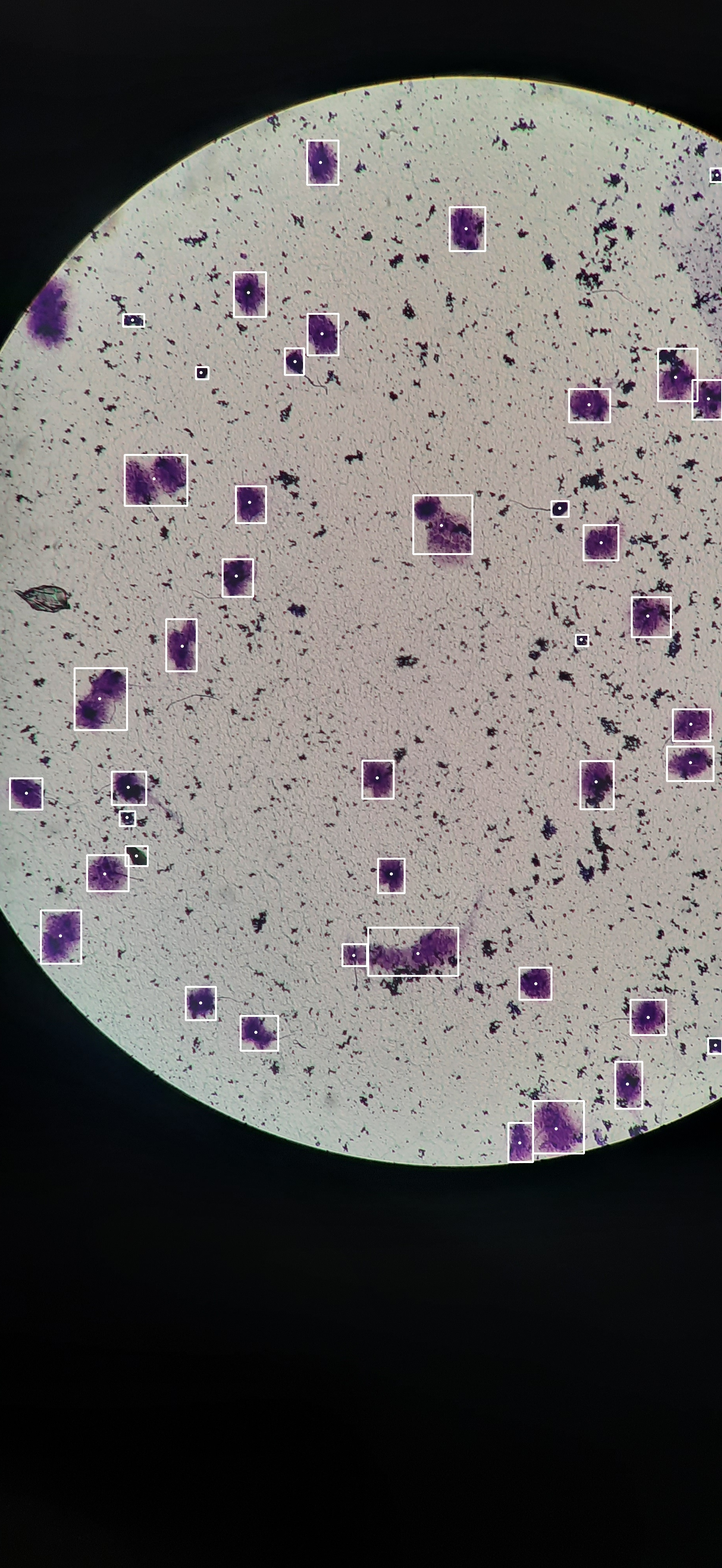
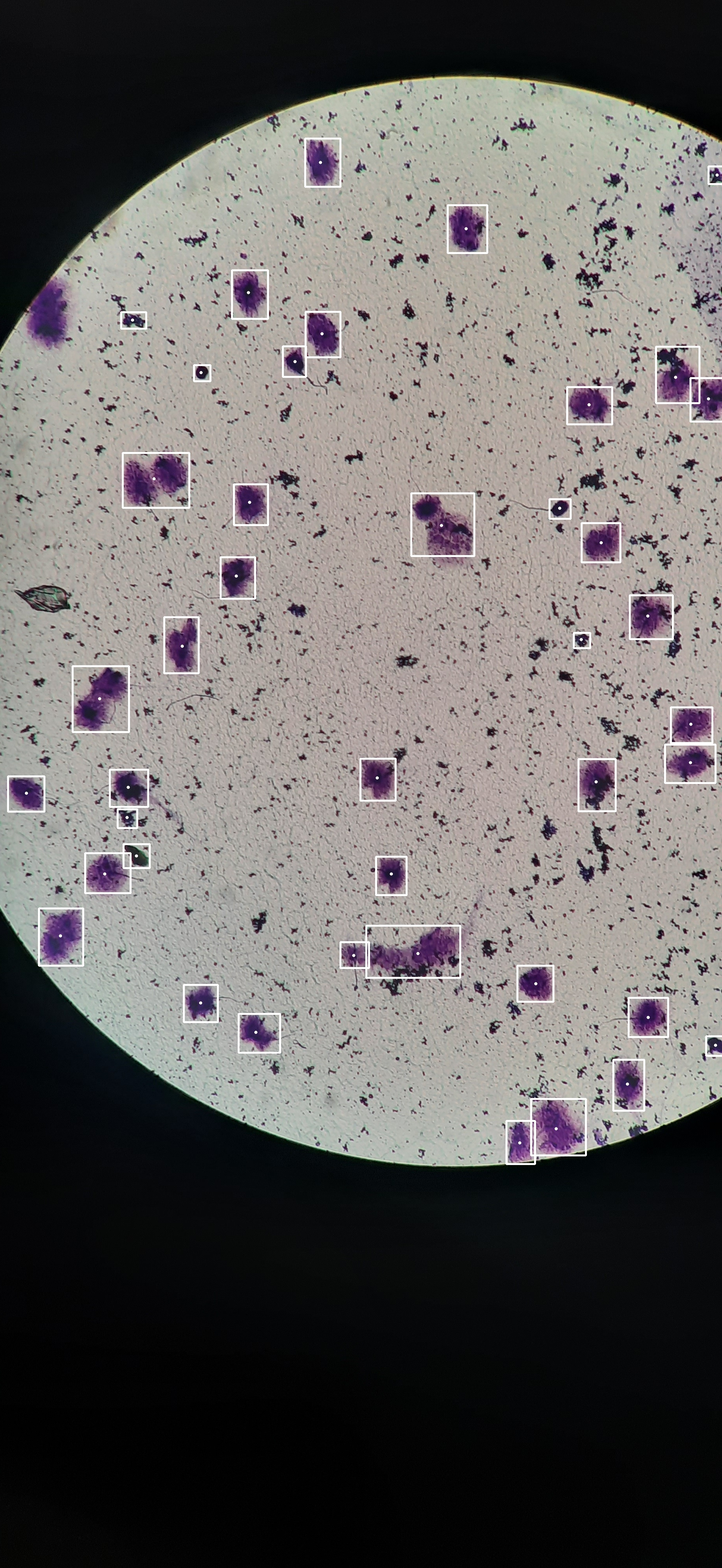
better margin

diff --git a/src/preprocessor/main.py b/src/preprocessor/main.py
@@ -13,6 +13,7 @@ HUE_PARAMS = {
     'ilowV' : 0,
     'ihighV' : 189,
 }
+MARGIN = 10
 
 def show(name, img):
     cv2.imshow(name, img)
@@ -53,7 +54,7 @@ def hue_separate():
 def get_full_img_binary(gray):
     thresh = cv2.threshold(gray, 20, 255,
 	cv2.THRESH_BINARY)[1]
-    show("thresh", thresh)
+    # show("thresh", thresh)
     cv2.imwrite("../images/output/asds_thresh.jpg", thresh)
     mask = cv2.bitwise_not(thresh)
     input_gray = cv2.cvtColor(INPUT_FRAME, cv2.COLOR_BGR2GRAY)
@@ -96,12 +97,15 @@ def cca(thresh):
         w = stats[i, cv2.CC_STAT_WIDTH]
         h = stats[i, cv2.CC_STAT_HEIGHT]
         area = stats[i, cv2.CC_STAT_AREA]
-        print("area", area)
+        # print("area", area)
         if area < 500 or area > 30000:
             continue
         (cX, cY) = centroids[i]
         
-        
+        x -= int(MARGIN/2)
+        y -= int(MARGIN/2)
+        w += MARGIN
+        h += MARGIN
         cv2.rectangle(output_img, (x, y), (x + w, y + h), (255, 255, 255), 3)
         cv2.circle(output_img, (int(cX), int(cY)), 4, (255, 255, 255), -1)
         
